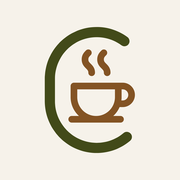
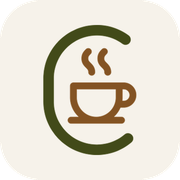
La sesión del gerente se cuenta desde que entra, e icono con el distintivo real
SESIÓN QUE SE CERRABA AL INSTANTE
El contador de inactividad arrancaba al CARGAR la app, no al iniciar sesión. Una
tablet que pasó la noche en la pantalla de acceso dejaba al gerente fuera al
segundo de entrar: para el contador ya llevaba horas quieto. La cuenta ahora
empieza cuando la sesión se activa.

Las pruebas anteriores no lo veían porque entraban a los pocos segundos de
cargar la página, que es justo el caso que nunca falla. La de regresión deja la
app ocho horas en el login antes de entrar.

ICONO DEL NAVEGADOR
Era el mismo dibujo aproximado que ya se quitó de las pantallas: un SVG hecho a
mano, parecido al distintivo pero no igual, así que en la barra del navegador la
marca no era la marca. favicon y apple-touch-icon se generan ahora del archivo
del logotipo, sobre el cuadrado crema redondeado que ya tenía el icono viejo.
Se elimina favicon.svg por lo mismo que se eliminó Mascot: mientras exista, se
vuelve a usar.

diff --git a/index.html b/index.html
@@ -7,7 +7,11 @@
       content="width=device-width, initial-scale=1.0, maximum-scale=1.0, user-scalable=no, viewport-fit=cover"
     />
     <title>Café del Valle · Punto de Venta</title>
-    <link rel="icon" type="image/svg+xml" href="/favicon.svg" />
+    <!-- El icono sale del distintivo del logotipo. Antes era un SVG redibujado
+         a mano, parecido pero no el logo: en la barra del navegador se notaba
+         que la marca no era la misma. -->
+    <link rel="icon" type="image/png" sizes="32x32" href="/favicon-32.png" />
+    <link rel="icon" type="image/png" sizes="64x64" href="/favicon-64.png" />
     <link rel="apple-touch-icon" href="/apple-touch-icon.png" />
     <!-- Instalable como app: en tablet, "Agregar a pantalla de inicio" la abre
          sin barra de pestañas ni de dirección. En una pantalla de 8.7" esas

diff --git a/src/App.jsx b/src/App.jsx
@@ -162,6 +162,13 @@ function useCierrePorInactividad(activo, alCerrar) {
       setRestante(null);
       return;
     }
+    /* La cuenta arranca AQUÍ, al iniciar sesión, no al cargar la app.
+
+       Sin esta línea el reloj corría desde que se abrió la pantalla de acceso:
+       una tablet que pasó la noche en el login dejaba al gerente fuera al
+       segundo de entrar, porque para el contador ya llevaba horas quieto. */
+    ultimaSenal.current = Date.now();
+
     const limite = INACTIVIDAD_MINUTOS * 60;
     /* Los toques DENTRO del aviso no cuentan como actividad. Si contaran, el
        toque reiniciaría la cuenta, el aviso desaparecería bajo el dedo y el
